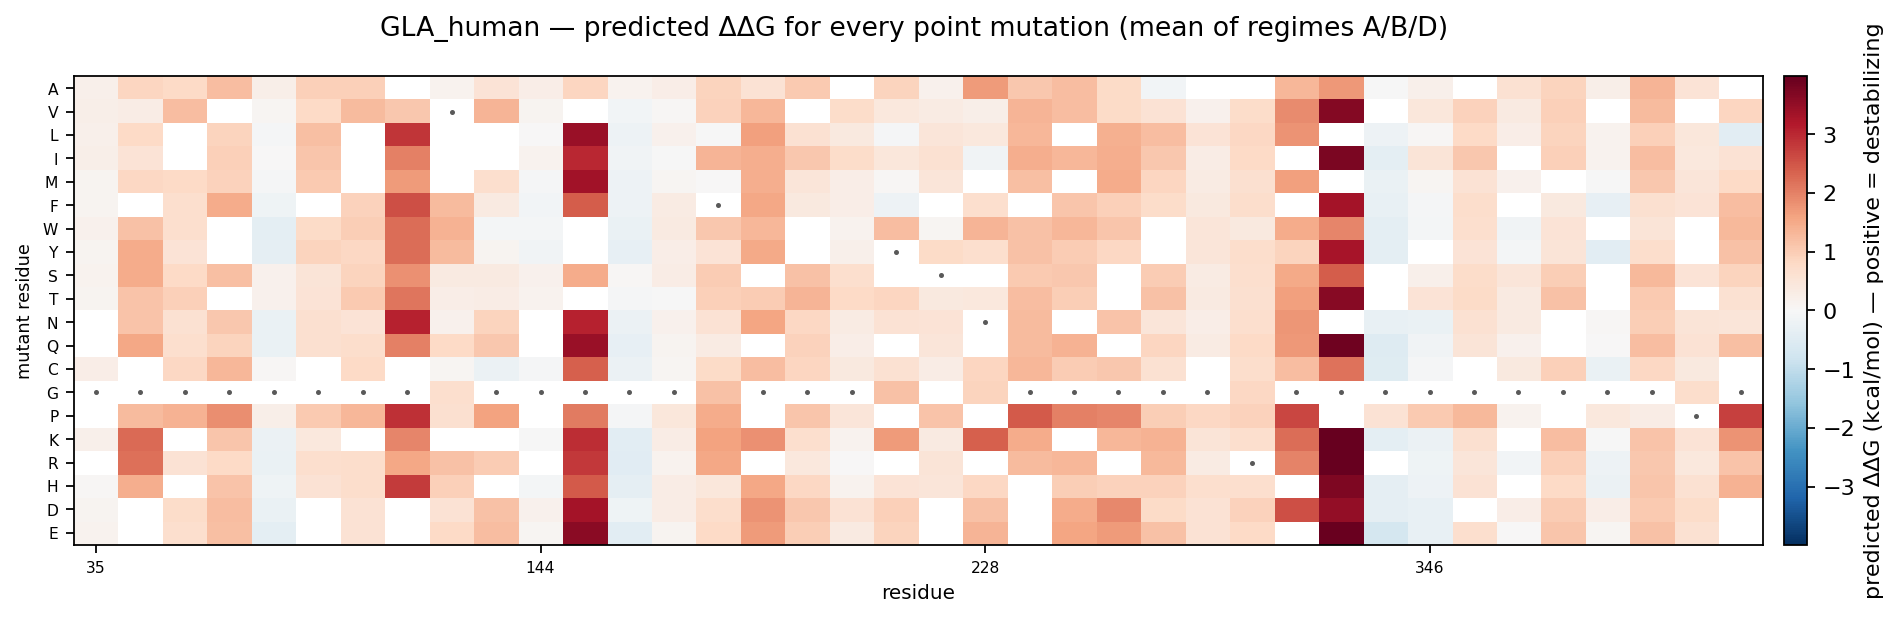
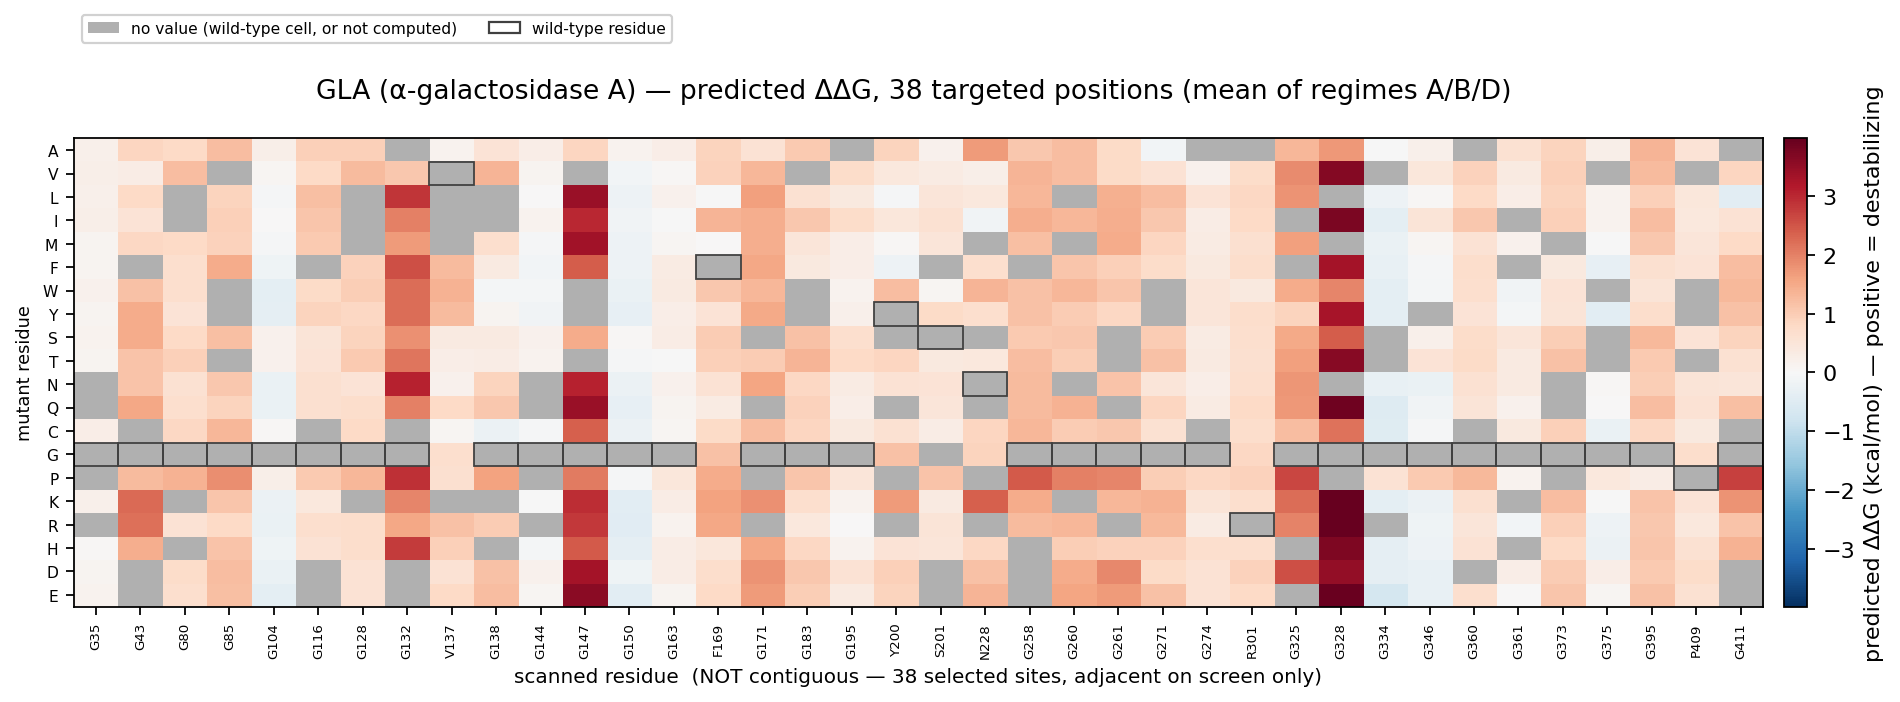
scan: heatmap must not render missing data as neutral; label non-contiguous scans honestly

diff --git a/ddg/scan/plots.py b/ddg/scan/plots.py
@@ -42,31 +42,59 @@ def _matrix_for(predictions, column, pos_col):
 
 def plot_heatmap(predictions, path, column="ddg_mean",
                  title="Predicted ΔΔG — every point mutation"):
-    """Position x residue heatmap, split into stacked bands of BAND positions."""
+    """Position x residue heatmap, split into stacked bands of BAND positions.
+
+    Cells with no value are drawn grey, never white: white is a real ΔΔG of ~0 on a
+    diverging map, so leaving gaps unpainted would make "not computed" look like
+    "predicted neutral". Grey cells are the wild-type residue's own row (no such
+    mutation) and any substitution whose structure was not predicted.
+    """
     positions, values = _matrix_for(predictions, column, POSITION)
     limit = float(np.nanmax(np.abs(values))) or 1.0
+    cmap = plt.get_cmap(CMAP).copy()
+    cmap.set_bad("#B0B0B0")
+    # A scan may cover non-contiguous sites (ddg.scan build --positions/--wt-residues);
+    # columns are then adjacent on screen but NOT adjacent in sequence, so every column
+    # gets its own label rather than a misleading evenly-spaced numeric axis.
+    contiguous = bool(np.all(np.diff(positions) == 1)) if len(positions) > 1 else True
 
     bands = [(i, min(i + BAND, len(positions))) for i in range(0, len(positions), BAND)]
     fig, axes = plt.subplots(len(bands), 1, figsize=(14, 2.6 * len(bands) + 1.2),
                              squeeze=False)
     image = None
     for ax, (start, stop) in zip(axes[:, 0], bands):
-        image = ax.imshow(values[:, start:stop], aspect="auto", cmap=CMAP,
-                          vmin=-limit, vmax=limit, interpolation="nearest")
+        image = ax.imshow(np.ma.masked_invalid(values[:, start:stop]), aspect="auto",
+                          cmap=cmap, vmin=-limit, vmax=limit, interpolation="nearest")
         ax.set_yticks(range(len(AA_ORDER)))
         ax.set_yticklabels(list(AA_ORDER), fontsize=7)
-        ticks = np.arange(start, stop, 10)
-        ax.set_xticks(ticks - start)
-        ax.set_xticklabels(positions[ticks], fontsize=7)
-        ax.set_ylabel("mutant residue", fontsize=8)
-        # Mark the wild-type residue of each column: no mutation exists there.
         wt = predictions.drop_duplicates(POSITION).set_index(POSITION)["wt_aa"]
+        if contiguous:
+            ticks = np.arange(start, stop, 10)
+            ax.set_xticks(ticks - start)
+            ax.set_xticklabels(positions[ticks], fontsize=7)
+        else:
+            ax.set_xticks(np.arange(stop - start))
+            ax.set_xticklabels(
+                [f"{wt.loc[p]}{p}" for p in positions[start:stop]],
+                fontsize=6, rotation=90)
+        ax.set_ylabel("mutant residue", fontsize=8)
+        # Outline the wild-type residue's own cell so it reads as "not a mutation"
+        # rather than as missing data.
         for offset, position in enumerate(positions[start:stop]):
             row = AA_ORDER.find(wt.loc[position])
             if row >= 0:
-                ax.plot(offset, row, marker=".", color="0.35", markersize=2.5)
-    axes[-1, 0].set_xlabel("residue", fontsize=9)
+                ax.add_patch(plt.Rectangle((offset - .5, row - .5), 1, 1, fill=False,
+                                           edgecolor="#404040", linewidth=.8))
+    axes[-1, 0].set_xlabel(
+        "residue" if contiguous else
+        "scanned residue  (NOT contiguous — 38 selected sites, adjacent on screen only)",
+        fontsize=9)
     fig.suptitle(title, fontsize=12)
+    from matplotlib.patches import Patch
+    axes[0, 0].legend(handles=[
+        Patch(facecolor="#B0B0B0", label="no value (wild-type cell, or not computed)"),
+        Patch(facecolor="white", edgecolor="#404040", label="wild-type residue"),
+    ], fontsize=7, loc="upper left", bbox_to_anchor=(0, 1.28), ncol=2, framealpha=.9)
     fig.colorbar(image, ax=axes[:, 0].tolist(), fraction=0.015, pad=0.012,
                  label="predicted ΔΔG (kcal/mol) — positive = destabilizing")
     fig.savefig(path, dpi=160, bbox_inches="tight")

diff --git a/results/10_gla_scan/status.md b/results/10_gla_scan/status.md
@@ -323,3 +323,16 @@ single FoldX bar, so every bar just traces FoldX.
 Both figures are kept: **03 = scale mismatch** (the physically meaningful comparison),
 **02 = ordering disagreement** (the only comparison that is scale-free). Neither is an
 accuracy measure — there is still no measured ΔΔG for this protein.
+
+### 2026-08-25 — heatmap corrected (missing data was indistinguishable from neutral)
+
+Two defects fixed in `ddg/scan/plots.py::plot_heatmap`, both of which made the headline
+figure misleading:
+1. **Missing cells rendered white**, identical to a predicted ΔΔG of ~0 on a diverging
+   map — so "not computed" (the 118-mutation coverage gap) read as "predicted neutral".
+   Now drawn **grey** via `cmap.set_bad`, with the wild-type cell outlined separately.
+2. **The x-axis implied a contiguous stretch of sequence.** A subset scan's columns are
+   adjacent on screen but not in sequence; each column is now labelled with its own
+   residue (`G328`, `V137`, …) and the axis says so explicitly.
+
+Both apply to any subset scan, not just this one.
